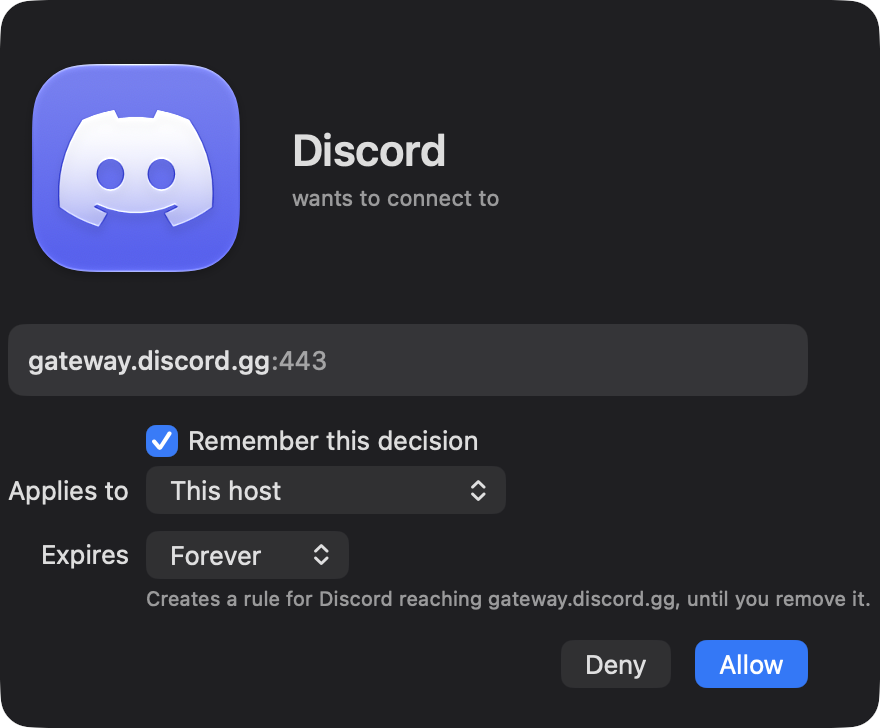
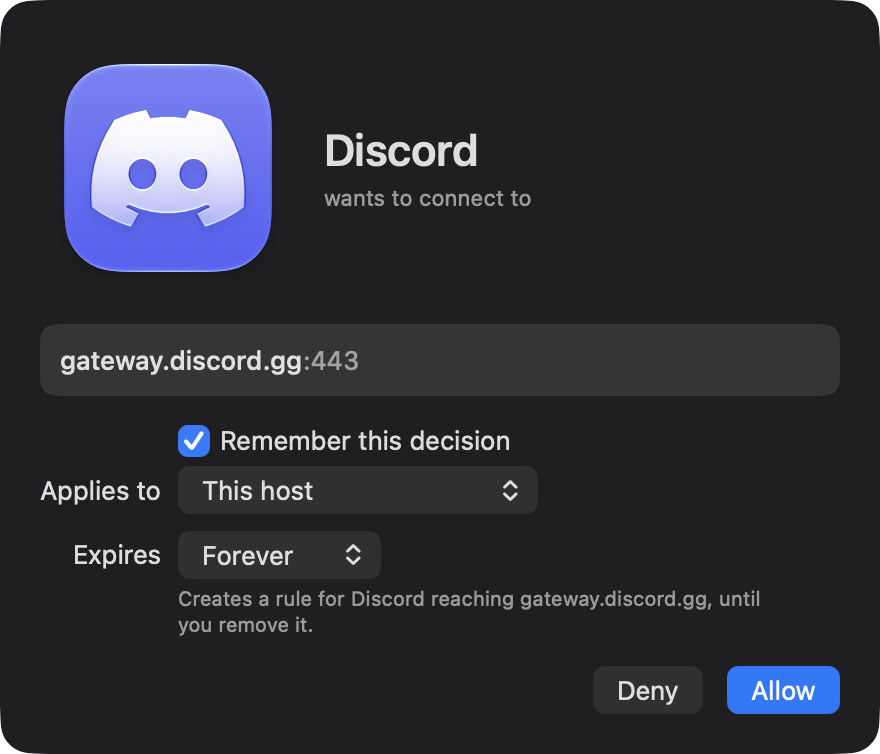
docs: clean alert, menu bar and expanded monitor screenshots
Recaptured with Scripts/screenshots.sh from main: the alert now shows the
centred card, the menu bar popover has no hovered row, and the website's
Observe section shows Arc expanded to its destinations.

diff --git a/docs/index.html b/docs/index.html
@@ -114,7 +114,7 @@
       <div class="mt-16 grid items-start gap-12 lg:grid-cols-[1.35fr_0.65fr] lg:gap-20">
         <figure>
           <div class="overflow-hidden rounded-xl border border-line bg-surface-raised p-2">
-            <img src="screenshot-monitor.png" alt="Network Monitor in light mode: apps and their traffic next to a world map of where it goes" class="w-full rounded-xl" width="1600" height="978" loading="lazy" decoding="async">
+            <img src="screenshot-monitor.png" alt="Network Monitor in light mode with Arc expanded to show each destination it reached, including one denied tracker, next to the world map" class="w-full rounded-xl" width="1600" height="978" loading="lazy" decoding="async">
           </div>
           <figcaption class="mt-4 text-sm leading-6 text-muted">A live view of the connections that are easy to miss in an ordinary network menu.</figcaption>
         </figure>
@@ -153,7 +153,7 @@
           <p class="mt-4 leading-7 text-secondary">Allow or deny the request, then choose how much of the future to cover. Keep a one-off decision temporary, or make a clear rule that lasts.</p>
           <figure class="mt-10 max-w-lg">
             <div class="overflow-hidden rounded-xl border border-line bg-surface-raised p-2">
-              <img src="screenshot-alert.png" alt="Connection alert: Discord wants to connect to gateway.discord.gg on port 443, with Remember, Applies to and Expires choices and Deny or Allow" class="w-full rounded-xl" width="880" height="728" loading="lazy" decoding="async">
+              <img src="screenshot-alert.png" alt="Connection alert: Discord wants to connect to gateway.discord.gg on port 443, with Remember, Applies to and Expires choices and Deny or Allow" class="w-full rounded-xl" width="880" height="754" loading="lazy" decoding="async">
             </div>
             <figcaption class="mt-4 text-sm leading-6 text-muted">The alert says who is asking, for what, and what the answer will create.</figcaption>
           </figure>

diff --git a/README.md b/README.md
@@ -252,7 +252,7 @@ All screenshots are FreeSnitch 1.0 running on sample data (`Scripts/screenshots.
 
 | Network Monitor | Rules |
 |---|---|
-| ![Network Monitor: apps, their destinations and a live world map](docs/screenshot-monitor.png) | ![Rules: per-app allow, deny and ask rules, with blocklists](docs/screenshot-rules.png) |
+| ![Network Monitor: apps, their destinations (Arc expanded) and a live world map](docs/screenshot-monitor.png) | ![Rules: per-app allow, deny and ask rules, with blocklists](docs/screenshot-rules.png) |
 | **Insights** | **Profiles** |
 | ![Insights: which apps reached which destinations over the last 7 days](docs/screenshot-insights.png) | ![Profiles: strictness and blocklists per network](docs/screenshot-profiles.png) |
 | **Connection alert** | **Menu bar** |
